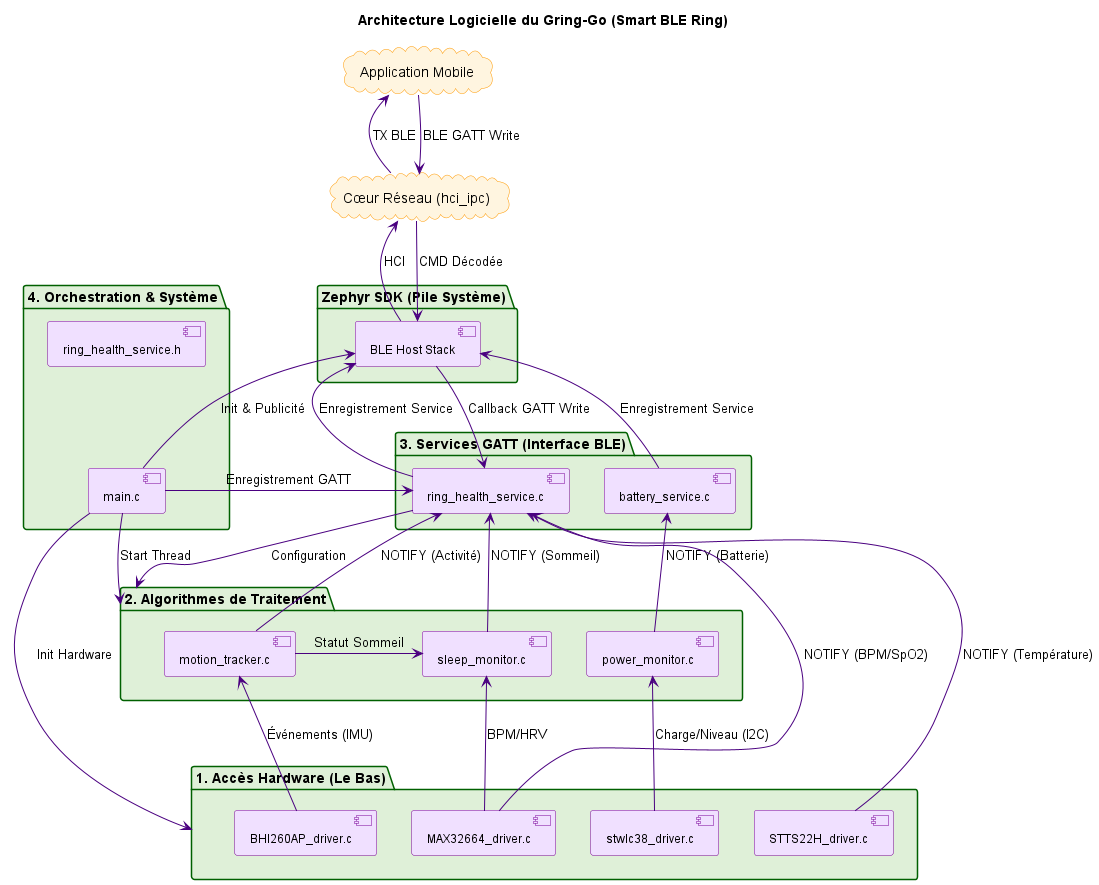
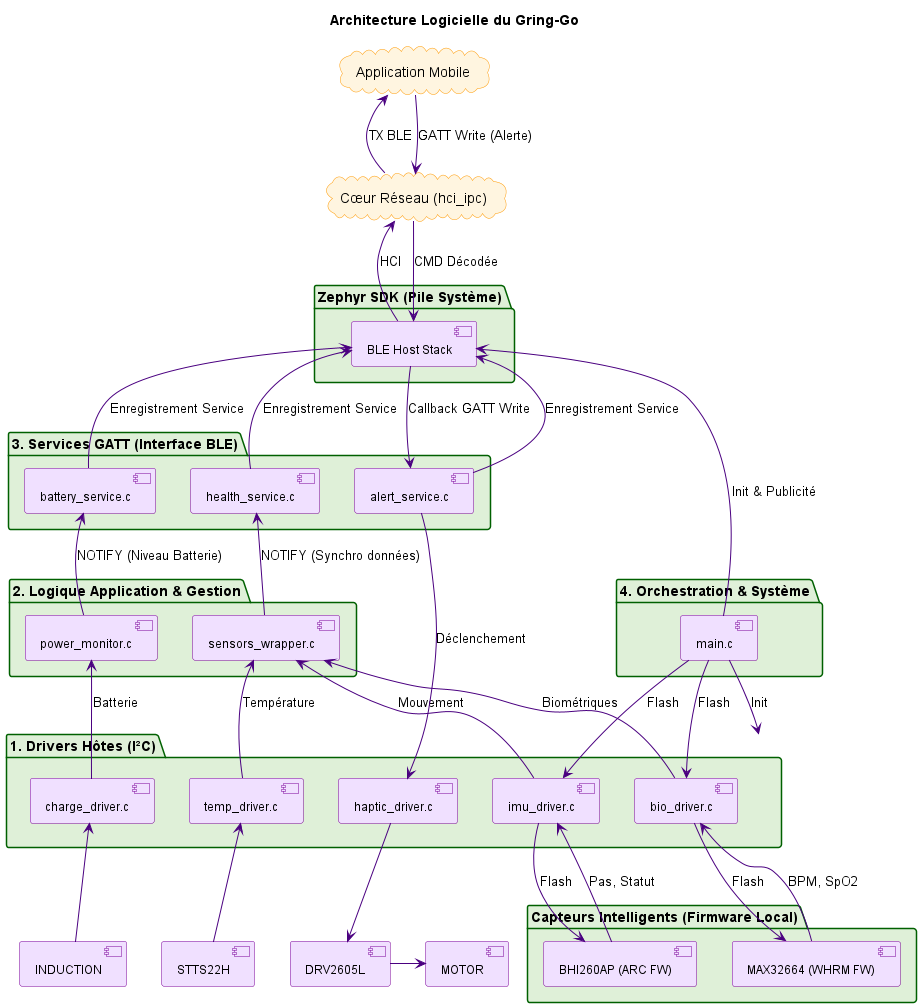
Defining the firmware architecture  (#26)
* Update the firmware architecture and the files

* FW functions prototypes document

* Create sensor hubs flashing binary files

diff --git a/SOFTWARE/EMBEDDED/doc/function_prototypes.md b/SOFTWARE/EMBEDDED/doc/function_prototypes.md
@@ -1,0 +1,70 @@
+# 📋 API Logicielle du Projet Gring-Go (Zephyr RTOS) - Convention Concise
+
+## 1. ⚙ Couche Drivers Hôtes (`drivers/`)
+
+| Fichier | Nom de la Fonction | Entrées | Sorties | Utilité |
+| :--- | :--- | :--- | :--- | :--- |
+| **`haptic_driver.c`** | `HAPTIC_Init()` | `void` | `int` | Initialise et configure le DRV2605L. Retourne `STATUS_OK` ou `STATUS_ERR_I2C_COM`. |
+| | `HAPTIC_PlayEffect()` | `enum alert_effect effect_id` | `int` | Déclenche un effet de vibration. Retourne `STATUS_OK` ou `STATUS_ERR_I2C_COM`. |
+| **`imu_driver.c`** | `IMU_Init()` | `void` | `int` | Charge le Firmware ARC (Flash). Retourne `STATUS_OK` ou `STATUS_ERR_FW_FLASH`. |
+| | `IMU_Read()` | `struct imu_data *data` | `int` | Lit le *buffer* du BHI260AP. Retourne `STATUS_OK`, `STATUS_ERR_I2C_COM` ou `STATUS_ERR_NOT_READY`. |
+| | `IMU_SleepWake()` | `bool enable` | `int` | Gère l'état de sommeil/réveil. Retourne `STATUS_OK` ou `STATUS_ERR_I2C_COM`. |
+| **`bio_driver.c`** | `BIO_Init()` | `void` | `int` | Charge le Firmware WHRM (Flash). Retourne `STATUS_OK` ou `STATUS_ERR_FW_FLASH`. |
+| | `BIO_Read()` | `struct bio_data *data` | `int` | Lit le *buffer* du MAX32664. Retourne `STATUS_OK`, `STATUS_ERR_I2C_COM` ou `STATUS_ERR_NOT_READY`. |
+| | `BIO_SleepMode()` | `bool enable` | `int` | Gère l'état *shutdown*/réveil. Retourne `STATUS_OK` ou `STATUS_ERR_I2C_COM`. |
+| | `BIO_InjectMotion()` | `struct imu_data *motion_data` | `int` | Transmet les données de mouvement pour correction. Retourne `STATUS_OK` ou `STATUS_ERR_I2C_COM`. |
+| **`temp_driver.c`** | `TEMP_Init()` | `void` | `int` | Initialise la puce STTS22H. Retourne `STATUS_OK` ou `STATUS_ERR_I2C_COM`. |
+| | `TEMP_ReadCelsius()` | `float *temperature` | `int` | Effectue une lecture I²C. Retourne `STATUS_OK` ou `STATUS_ERR_I2C_COM`. |
+| **`charge_driver.c`** | `CHARGE_Init()` | `void` | `int` | Initialise le pilote de charge I²C. Retourne `STATUS_OK` ou `STATUS_ERR_I2C_COM`. |
+| | `CHARGE_GetStatus()` | `struct charge_status *status` | `int` | Récupère l'état de charge. Retourne `STATUS_OK` ou `STATUS_ERR_I2C_COM`. |
+
+## 2. 🎛 Couche Logique Application & Gestion (`src/`)
+
+| Fichier | Nom de la Fonction | Entrées | Sorties | Utilité |
+| :--- | :--- | :--- | :--- | :--- |
+| **`sensors_wrapper.c`** | `WRAPPER_StartPoll()` | `void` | `int` | Démarre le thread de *polling*. Retourne `STATUS_OK` ou code Zephyr (`-ENOMEM`). |
+| | `WRAPPER_StopPoll()` | `void` | `int` | Arrête le thread de *polling*. Retourne `STATUS_OK`. |
+| | `WRAPPER_GetLatestData()` | `void` | `struct aggregated_data` | Fournit les dernières données lues (pas, BPM, temp). |
+| **`power_monitor.c`** | `PWR_Init()` | `void` | `int` | Démarre un thread pour la surveillance de la batterie. Retourne `STATUS_OK` ou code Zephyr (`-ENOMEM`). |
+| | `PWR_GetLevel()` | `void` | `uint8_t` (Pourcentage) | Retourne le pourcentage de batterie actuel. |
+| | `PWR_CheckChargeStatus()` | `void` | `void` | Vérifie l'état de charge et met à jour l'état système. |
+| **`main.c`** | `main()` | `void` | `int` | Initialise tout. Retourne `0` si succès, ou code d'erreur Zephyr si échec critique. |
+
+## 3. 🌐 Couche Services GATT (`src/`)
+
+| Fichier | Nom de la Fonction | Entrées | Sorties | Utilité |
+| :--- | :--- | :--- | :--- | :--- |
+| **`alert_service.c`** | `ALERT_SVC_Init()` | `void` | `int` | Enregistre le service GATT. Retourne `0` ou code d'erreur BLE Zephyr. |
+| | `ALERT_SVC_WriteCb()` | *Paramètres Zephyr* | `ssize_t` | **Callback GATT Write.** Réagit à la commande de vibration. Retourne la taille des données écrites (ou code d'erreur). |
+| **`health_service.c`** | `HEALTH_SVC_Init()` | `void` | `int` | Enregistre le service GATT de santé. Retourne `0` ou code d'erreur BLE Zephyr. |
+| | `HEALTH_SVC_NotifyData()` | `struct aggregated_data *data` | `void` | Envoie une notification (NOTIFY). |
+| **`battery_service.c`** | `BAS_Init()` | `void` | `int` | Enregistre le service GATT BAS. Retourne `0` ou code d'erreur BLE Zephyr. |
+| | `BAS_NotifyLevel()` | `uint8_t level` | `void` | Envoie une notification (NOTIFY) du niveau de batterie actuel. |
+
+# 📋 Définitions des Types et Status Clés
+
+## 1. Structures de Données (Définies dans `include/gringgo_types.h`)
+
+| Type | Contenu | Utilisé par | Utilité |
+| :--- | :--- | :--- | :--- |
+| `struct imu_data` | `uint32_t steps_count`, `enum activity_mode mode` | `IMU_Read`, `BIO_InjectMotion` | Représente les données de mouvement traitées par le BHI260AP. |
+| `struct bio_data` | `uint16_t bpm`, `uint8_t spo2_pct`, `uint16_t hrv` | `BIO_Read` | Représente les métriques biométriques traitées par le MAX32664. |
+| `struct charge_status` | `uint8_t battery_level`, `bool is_charging`, `uint16_t voltage_mv` | `CHARGE_GetStatus` | État de la batterie et du récepteur de charge sans fil. |
+| `struct aggregated_data` | `struct bio_data bio`, `uint32_t steps`, `float temp_celsius`, `uint8_t batt_level` | `WRAPPER_GetLatestData`, `HEALTH_SVC_NotifyData` | Ensemble complet des données de santé du dernier cycle de *polling*. |
+
+## 2. Énumérations (Définies dans `include/gringgo_types.h`)
+
+| Type | Valeurs Clés | Utilisé par | Utilité |
+| :--- | :--- | :--- | :--- |
+| `enum alert_effect` | `ALERT_VIB_INCOMING_CALL`, `ALERT_VIB_NOTIFICATION`, `ALERT_VIB_ALARM` | `HAPTIC_PlayEffect`, `ALERT_SVC_WriteCb` | Identifiants pour sélectionner un effet de vibration ROM prédéfini sur le DRV2605L. |
+| `enum activity_mode` | `MODE_STILL`, `MODE_WALKING`, `MODE_RUNNING`, `MODE_SLEEPING` | `IMU_Read` | État d'activité détecté par l'algorithme de fusion de capteurs BHI260AP. |
+
+## 3. Codes de Statut Personnalisés (Définis dans `include/gringgo_status.h`)
+
+| Code (Valeur) | Nom de la Macro | Utilisé par | Utilité |
+| :--- | :--- | :--- | :--- |
+| `0` | `STATUS_OK` | Toutes | Succès de l'opération (Standard Zephyr/C). |
+| `-1001` | `STATUS_ERR_I2C_COM` | Drivers | Erreur générique de communication I²C/SPI. |
+| `-1002` | `STATUS_ERR_FW_FLASH` | `IMU_Init`, `BIO_Init` | Échec du chargement du firmware dans le Sensor Hub. |
+| `-1003` | `STATUS_ERR_NOT_READY` | `IMU_Read`, `BIO_Read` | Le capteur n'a pas encore de donnée valide à retourner. |
+| `-1004` | `STATUS_ERR_NO_CONN` | Services GATT | Tentative d'envoyer une notification sans connexion BLE active. |
